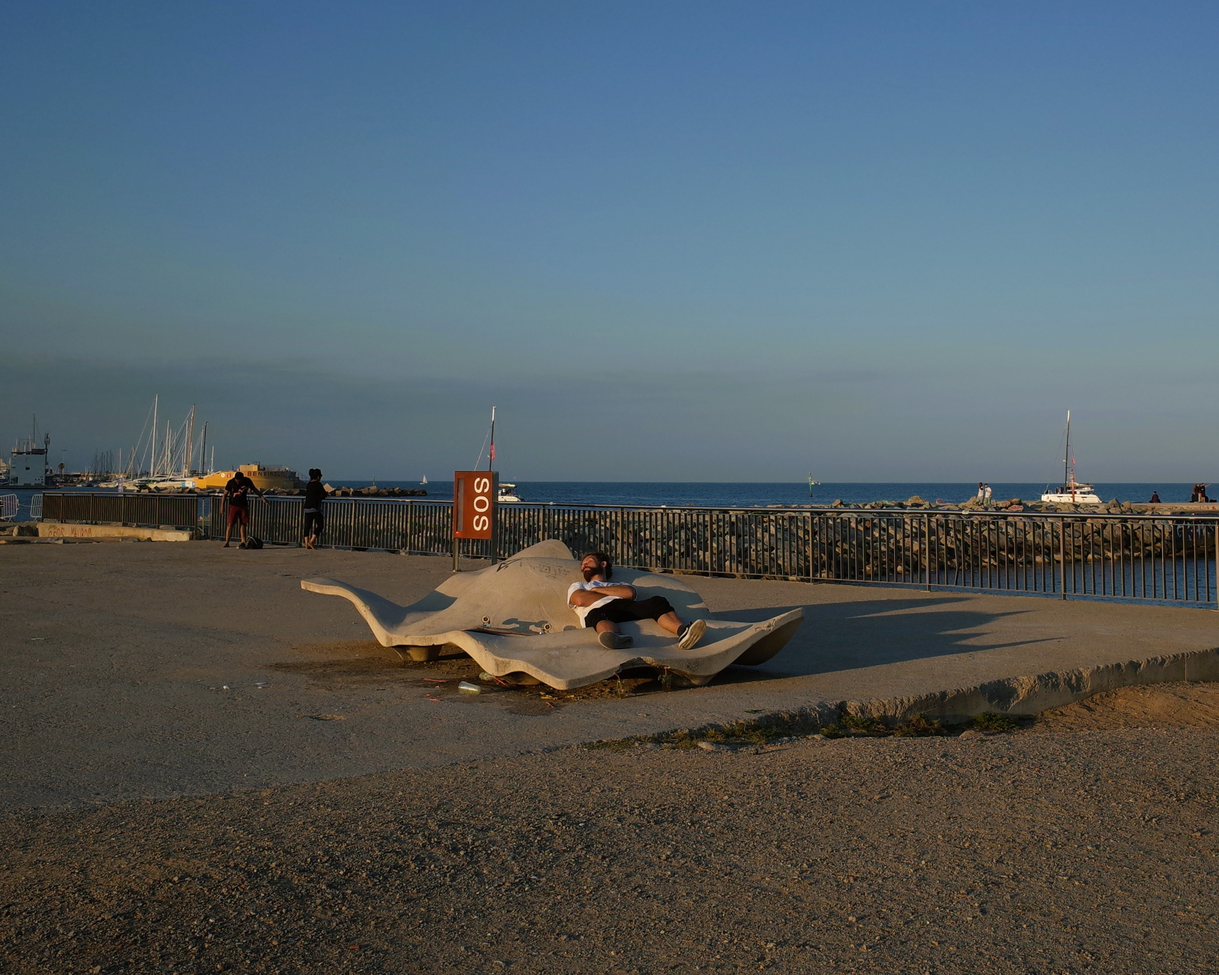
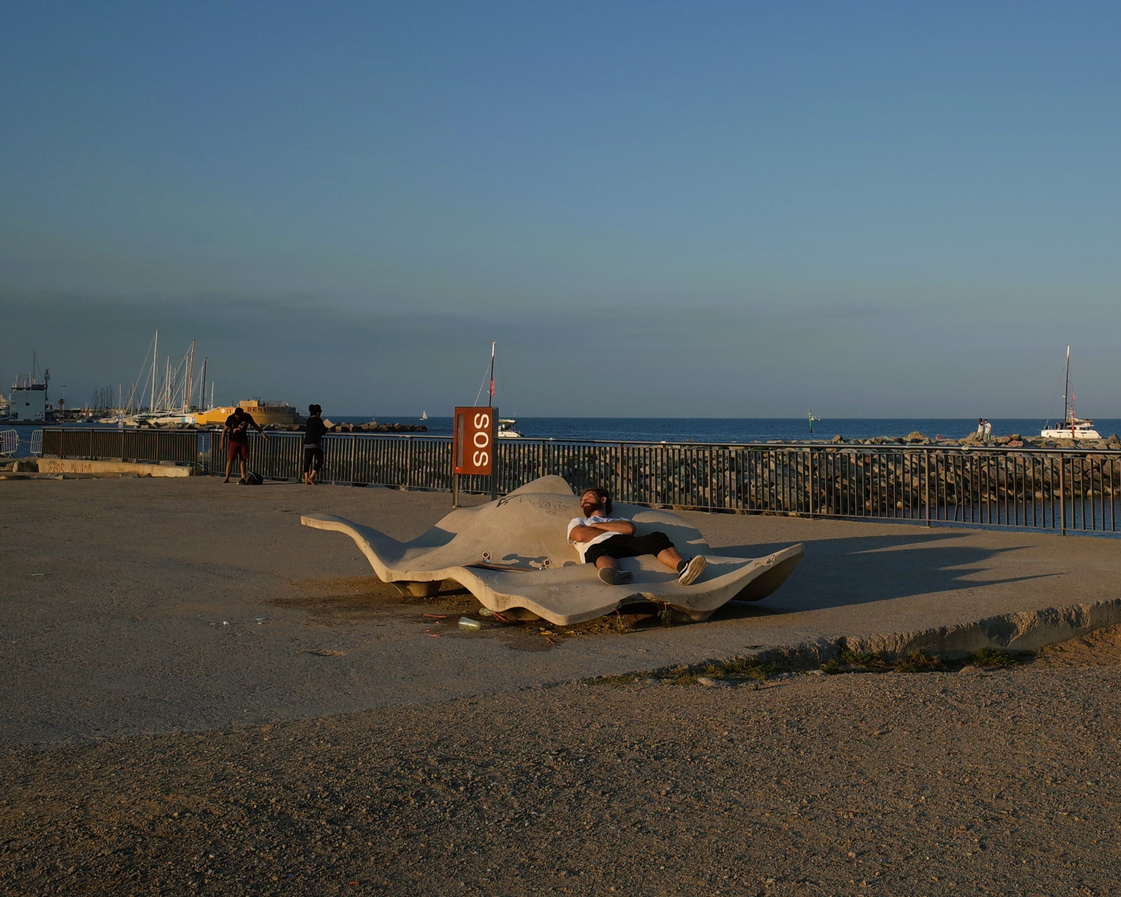
Add new photos to chairpiles, dayend, doalone, losvallekanos

Changed region(s): [[0.0, 0.3725, 1.0, 1.0]]

diff --git a/_photography/doalone.md b/_photography/doalone.md
@@ -48,3 +48,37 @@ description:
     {% include figure.liquid path="assets/img/doalone/112021_muc.jpg" title="Munich, November 2021" class="img-fluid" %}
   </div>
 </div>
+
+<div class="row justify-content-sm-center align-items-start">
+  <div class="col-sm-6 mt-3 mt-md-0">
+    {% include figure.liquid path="assets/img/doalone/052019_bcn.jpg" title="Barcelona, May 2019" class="img-fluid" %}
+  </div>
+  <div class="col-sm-6 mt-3 mt-md-5">
+    {% include figure.liquid path="assets/img/doalone/112019_mad.jpg" title="Madrid, November 2019" class="img-fluid" %}
+  </div>
+</div>
+
+<div class="row justify-content-sm-center align-items-start">
+  <div class="col-sm-4 mt-3 mt-md-5">
+    {% include figure.liquid path="assets/img/doalone/032021_mad.jpg" title="Madrid, March 2021" class="img-fluid" %}
+  </div>
+  <div class="col-sm-8 mt-3 mt-md-0">
+    {% include figure.liquid path="assets/img/doalone/052019_bcn_2.jpg" title="Barcelona, May 2019" class="img-fluid" %}
+  </div>
+</div>
+
+<div class="row justify-content-sm-center">
+  <div class="col-sm-8 mt-3 mt-md-0">
+    {% include figure.liquid path="assets/img/doalone/052019_bcn_3.jpg" title="Barcelona, May 2019" class="img-fluid" %}
+  </div>
+  <div class="col-sm-4 mt-3 mt-md-0">
+  </div>
+</div>
+
+<div class="row justify-content-sm-center">
+  <div class="col-sm-4 mt-3 mt-md-0">
+  </div>
+  <div class="col-sm-8 mt-3 mt-md-0">
+    {% include figure.liquid path="assets/img/doalone/052019_mad.jpg" title="Madrid, May 2019" class="img-fluid" %}
+  </div>
+</div>

diff --git a/_photography/losvallekanos.md b/_photography/losvallekanos.md
@@ -83,3 +83,26 @@ nav_order: 1
     {% include figure.liquid path="assets/img/losvk/052019_vk_5.jpg" title="Los Vallekanos, May 2019" class="img-fluid" %}
   </div>
 </div>
+
+<div class="row justify-content-sm-center align-items-start">
+  <div class="col-sm-7 mt-3 mt-md-0">
+    {% include figure.liquid path="assets/img/losvk/052019_vk_7.jpg" title="Los Vallekanos, May 2019" class="img-fluid" %}
+  </div>
+  <div class="col-sm-5 mt-3 mt-md-5">
+    {% include figure.liquid path="assets/img/losvk/062019_vk_3.JPG" title="Los Vallekanos, June 2019" class="img-fluid" %}
+  </div>
+</div>
+
+<div class="row justify-content-sm-center">
+  <div class="col-sm-4 mt-3 mt-md-0">
+  </div>
+  <div class="col-sm-8 mt-3 mt-md-0">
+    {% include figure.liquid path="assets/img/losvk/052019_vk_8.jpg" title="Los Vallekanos, May 2019" class="img-fluid" %}
+  </div>
+</div>
+
+<div class="row justify-content-sm-center">
+  <div class="col-sm-12 mt-3 mt-md-0">
+    {% include figure.liquid path="assets/img/losvk/032021_vk.jpg" title="Los Vallekanos, March 2021" class="img-fluid" %}
+  </div>
+</div>

diff --git a/_photography/chairpiles.md b/_photography/chairpiles.md
@@ -22,3 +22,11 @@ description: Rain falls, snow melts, and chairs pile up. Take a look at the <a h
     {% include figure.liquid path="assets/img/chairpiles/082025-hht.jpg" title="Hohhot, August 2025" class="img-fluid" %}
   </div>
 </div>
+
+<div class="row justify-content-sm-center">
+  <div class="col-sm-8 mt-3 mt-md-0">
+    {% include figure.liquid path="assets/img/chairpiles/032021_bcn.jpg" title="Barcelona, March 2021" class="img-fluid" %}
+  </div>
+  <div class="col-sm-4 mt-3 mt-md-0">
+  </div>
+</div>

diff --git a/_photography/dayend.md b/_photography/dayend.md
@@ -42,6 +42,14 @@ nav_order: 2
 </div>
 
 <div class="row justify-content-sm-center">
+  <div class="col-sm-8 mt-3 mt-md-0">
+    {% include figure.liquid path="assets/img/dayend/102019_mad.jpg" title="Madrid, October 2019" class="img-fluid" %}
+  </div>
+  <div class="col-sm-4 mt-3 mt-md-0">
+  </div>
+</div>
+
+<div class="row justify-content-sm-center">
   <div class="col-sm-4 mt-3 mt-md-0">
   </div>
   <div class="col-sm-8 mt-3 mt-md-0">
